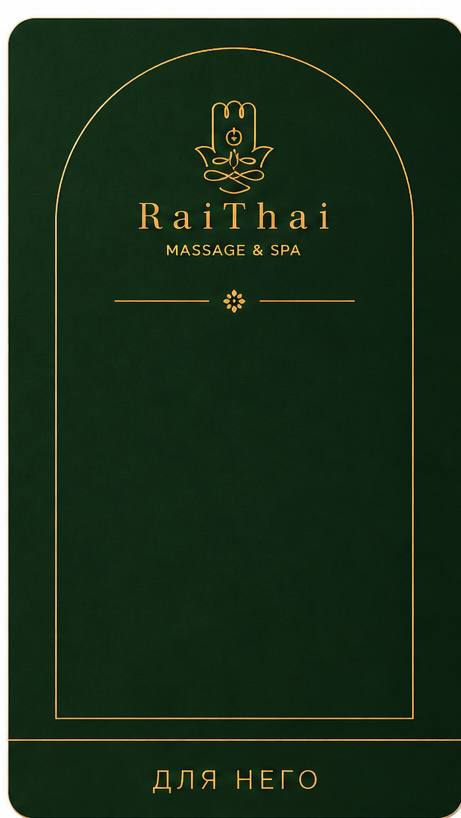
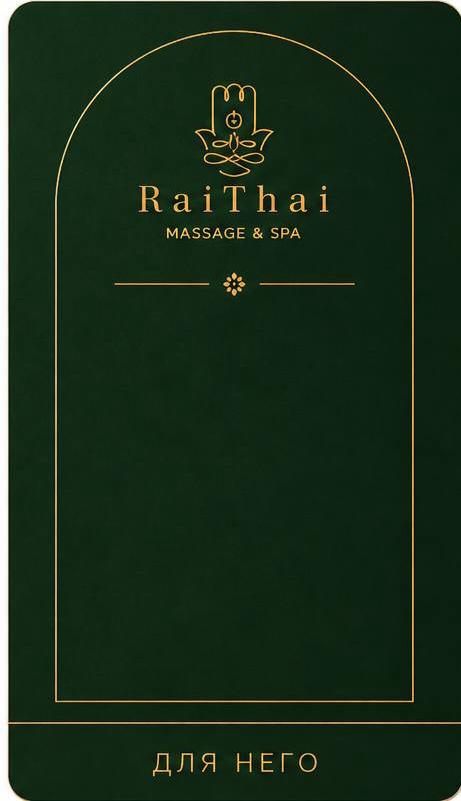
fix(certificate): точная попиксельная обрезка, возврат плашки, убрана дублирующая подпись
Блок 1 — обрезка по пикселям (порог RGB>245, попиксельное сканирование
bounding box непрозрачного контента): standard.jpg — белого поля не
найдено вообще, файл не менялся; for-her.jpg/for-him.jpg — белая полоса
16px сверху обрезана (+1px запаса) = 461x801. Слева/справа/снизу белого
поля не найдено ни у одного файла.

Блок 2/3 — возврат: golden-плашка с названием дизайна — часть картинки,
её не трогаем; отменена прошлая CSS-обрезка снизу (object-fit: cover +
object-position: top), возвращено object-fit: contain — фото показывается
целиком на всех трёх дизайнах. Убрана РЕАЛЬНАЯ дублирующая подпись — на
шаге выбора дизайна отдельный <span> с названием под каждой карточкой
(название теперь только на самой картинке; название сохранено в
aria-label кнопки для скринридеров). На финальном превью (aside)
отдельной HTML-подписи не было изначально — там нечего было убирать.

Блок 4 — CERT_DESIGN_ASPECT пересчитан под новые размеры файлов (461/801),
archBox вернул исходные проценты (41/75) — калибровка не изменилась
(обрезан только верхний белый край, не сам контент карточки).

diff --git a/src/data/catalog.ts b/src/data/catalog.ts
@@ -603,37 +603,42 @@ export type CertificateDesign = {
 };
 
 /**
- * Фото дизайнов от заказчика (461×818 у for-her/for-him, 449×799 у standard,
- * соотношения почти идентичны, ~0.562) несут внизу впечатанную золотую
- * плашку с названием дизайна ("ДЛЯ НЕГО" и т.п.) — то же название сайт и
- * так печатает отдельным текстом (например подпись под карточкой на шаге
- * выбора дизайна), поэтому плашка дублирует его. Редактора картинок нет,
- * убрать вручную нельзя — обрезаем нижние ~15% высоты через CSS
- * (object-fit: cover + object-position: top в CertificateCard), где как раз
- * начинается плашка. Ширина при этом не трогается (scale по ширине идёт
- * первым, т.к. это соотношение только уже, не шире оригинала) — лого и
- * угловые цветы наверху и по бокам не обрезаются, только низ.
+ * Фото дизайнов от заказчика — плашка с названием дизайна ("ДЛЯ НЕГО" и
+ * т.п.) внизу каждого фото ЯВЛЯЕТСЯ частью дизайна, не трогаем/не обрезаем
+ * (правка владельца 2026-08-21: предыдущая попытка через object-fit: cover
+ * срезала плашку через CSS — отменено, плашка снова видна везде).
+ *
+ * Файлы обрезаны по пиксельному bounding box непрозрачного/не-белого
+ * контента (порог RGB > 245, минус запас 1px) 2026-08-21: у standard.jpg
+ * белого поля не было вообще (449×799 без изменений), у for-her.jpg и
+ * for-him.jpg была белая полоса 16px сверху — обрезана (461×801). Слева/
+ * справа/снизу белого поля не найдено ни у одного файла при точном
+ * попиксельном сканировании.
+ *
+ * Соотношения чуть разные (standard ≈0.562, остальные два ≈0.575) —
+ * object-fit: contain (не cover), чтобы гарантированно показывать фото
+ * целиком без обрезки на любом из трёх, даже при разнице пропорций.
  */
-export const CERT_DESIGN_ASPECT = "461 / 697";
+export const CERT_DESIGN_ASPECT = "461 / 801";
 
 export const designs: CertificateDesign[] = [
   {
     id: "standard",
     title: "Стандартный",
     photo: standardDesignPhoto,
-    archBox: { top: 48, bottom: 88, centerX: 52, width: 50 },
+    archBox: { top: 41, bottom: 75, centerX: 52, width: 50 },
   },
   {
     id: "for-her",
     title: "Для неё",
     photo: forHerDesignPhoto,
-    archBox: { top: 48, bottom: 88, centerX: 50, width: 50 },
+    archBox: { top: 41, bottom: 75, centerX: 50, width: 50 },
   },
   {
     id: "for-him",
     title: "Для него",
     photo: forHimDesignPhoto,
-    archBox: { top: 48, bottom: 88, centerX: 48, width: 50 },
+    archBox: { top: 41, bottom: 75, centerX: 48, width: 50 },
   },
 ];
 

diff --git a/src/components/CertificateCard.tsx b/src/components/CertificateCard.tsx
@@ -56,23 +56,19 @@ export function CertificateCard({
       className={`relative w-full overflow-hidden rounded-2xl ${className}`}
       style={{ aspectRatio: CERT_DESIGN_ASPECT, boxShadow: "0 24px 60px -30px rgba(0,0,0,0.75)" }}
     >
-      {/* Логотип, рамка и сама арка уже впечатаны в фото заказчиком — карточке
-          больше не нужно рисовать текстуру/вуаль/мотив программно поверх.
-          object-fit: cover + object-position: top — контейнер (461/697)
-          у́же по высоте, чем фото (461/818), поэтому cover масштабирует
-          строго по ширине (бока и углы не трогает — та же логика, что и
-          раньше с cover, только теперь контейнер нарочно короче фото) и
-          обрезает лишнее СНИЗУ, где золотая плашка с названием дизайна —
-          сайт и так печатает название отдельным текстом рядом с карточкой,
-          плашка дублировала его (см. CERT_DESIGN_ASPECT в catalog.ts). */}
+      {/* Логотип, рамка, арка и золотая плашка с названием — всё уже
+          впечатано в фото заказчиком, это часть дизайна, не обрезаем.
+          object-fit: contain — показывает фото целиком на всех трёх
+          дизайнах гарантированно без обрезки, даже с чуть разными
+          пропорциями файлов (см. CERT_DESIGN_ASPECT в catalog.ts). */}
       <img
         src={design.photo}
         alt=""
         aria-hidden="true"
         loading="lazy"
         width={461}
-        height={818}
-        className="absolute inset-0 h-full w-full object-cover object-top"
+        height={801}
+        className="absolute inset-0 h-full w-full object-contain object-center"
       />
 
       {/* Текстовый блок внутри арки — координаты свои под каждое фото

diff --git a/src/routes/certificate.tsx b/src/routes/certificate.tsx
@@ -605,14 +605,14 @@ function CertificateFlow() {
                     key={d.id}
                     type="button"
                     onClick={() => setDesignId(d.id)}
+                    aria-label={t(`designs.${d.id}.title`)}
                     className={`w-full overflow-hidden rounded-2xl border text-left transition-colors ${designId === d.id ? "border-gold" : "border-border/40 hover:border-gold/60"}`}
                   >
+                    {/* Название дизайна печатается только на самой картинке
+                        (золотая плашка) — раньше сайт дублировал его ещё раз
+                        отдельным текстом ниже; убрано, aria-label на кнопке
+                        сохраняет название для скринридеров. */}
                     <CertificateCard design={d} valueLabel={valueLabel} items={cardItems} compact />
-                    <span
-                      className={`block px-1.5 py-2 text-center text-[0.52rem] leading-tight tracking-[0.08em] uppercase sm:px-3 sm:py-3 sm:text-[0.68rem] sm:tracking-[0.28em] ${designId === d.id ? "text-gold" : "text-cream/65"}`}
-                    >
-                      {t(`designs.${d.id}.title`)}
-                    </span>
                   </button>
                 ))}
               </div>
